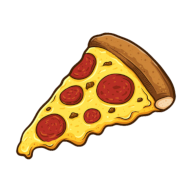
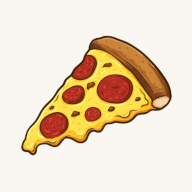
Add files via upload

Changed region(s): [[0.0625, 0.1562, 0.9375, 0.8438]]

diff --git a/sw.js b/sw.js
@@ -1,14 +1,13 @@
 // Service Worker — cache offline da Calculadora de Massa
 // Estratégia: cache-first para os arquivos do app (tudo local, sem rede).
 
-const CACHE = 'pizza-massa-v158';
+const CACHE = 'pizza-massa-v159';
 const ASSETS = [
   './',
   './index.html',
   './manifest.json',
   './icon-192.png',
   './icon-512.png',
-  './icon-background.png',
   './icon-maskable-512.png',
   './favicon.png'
 ];
